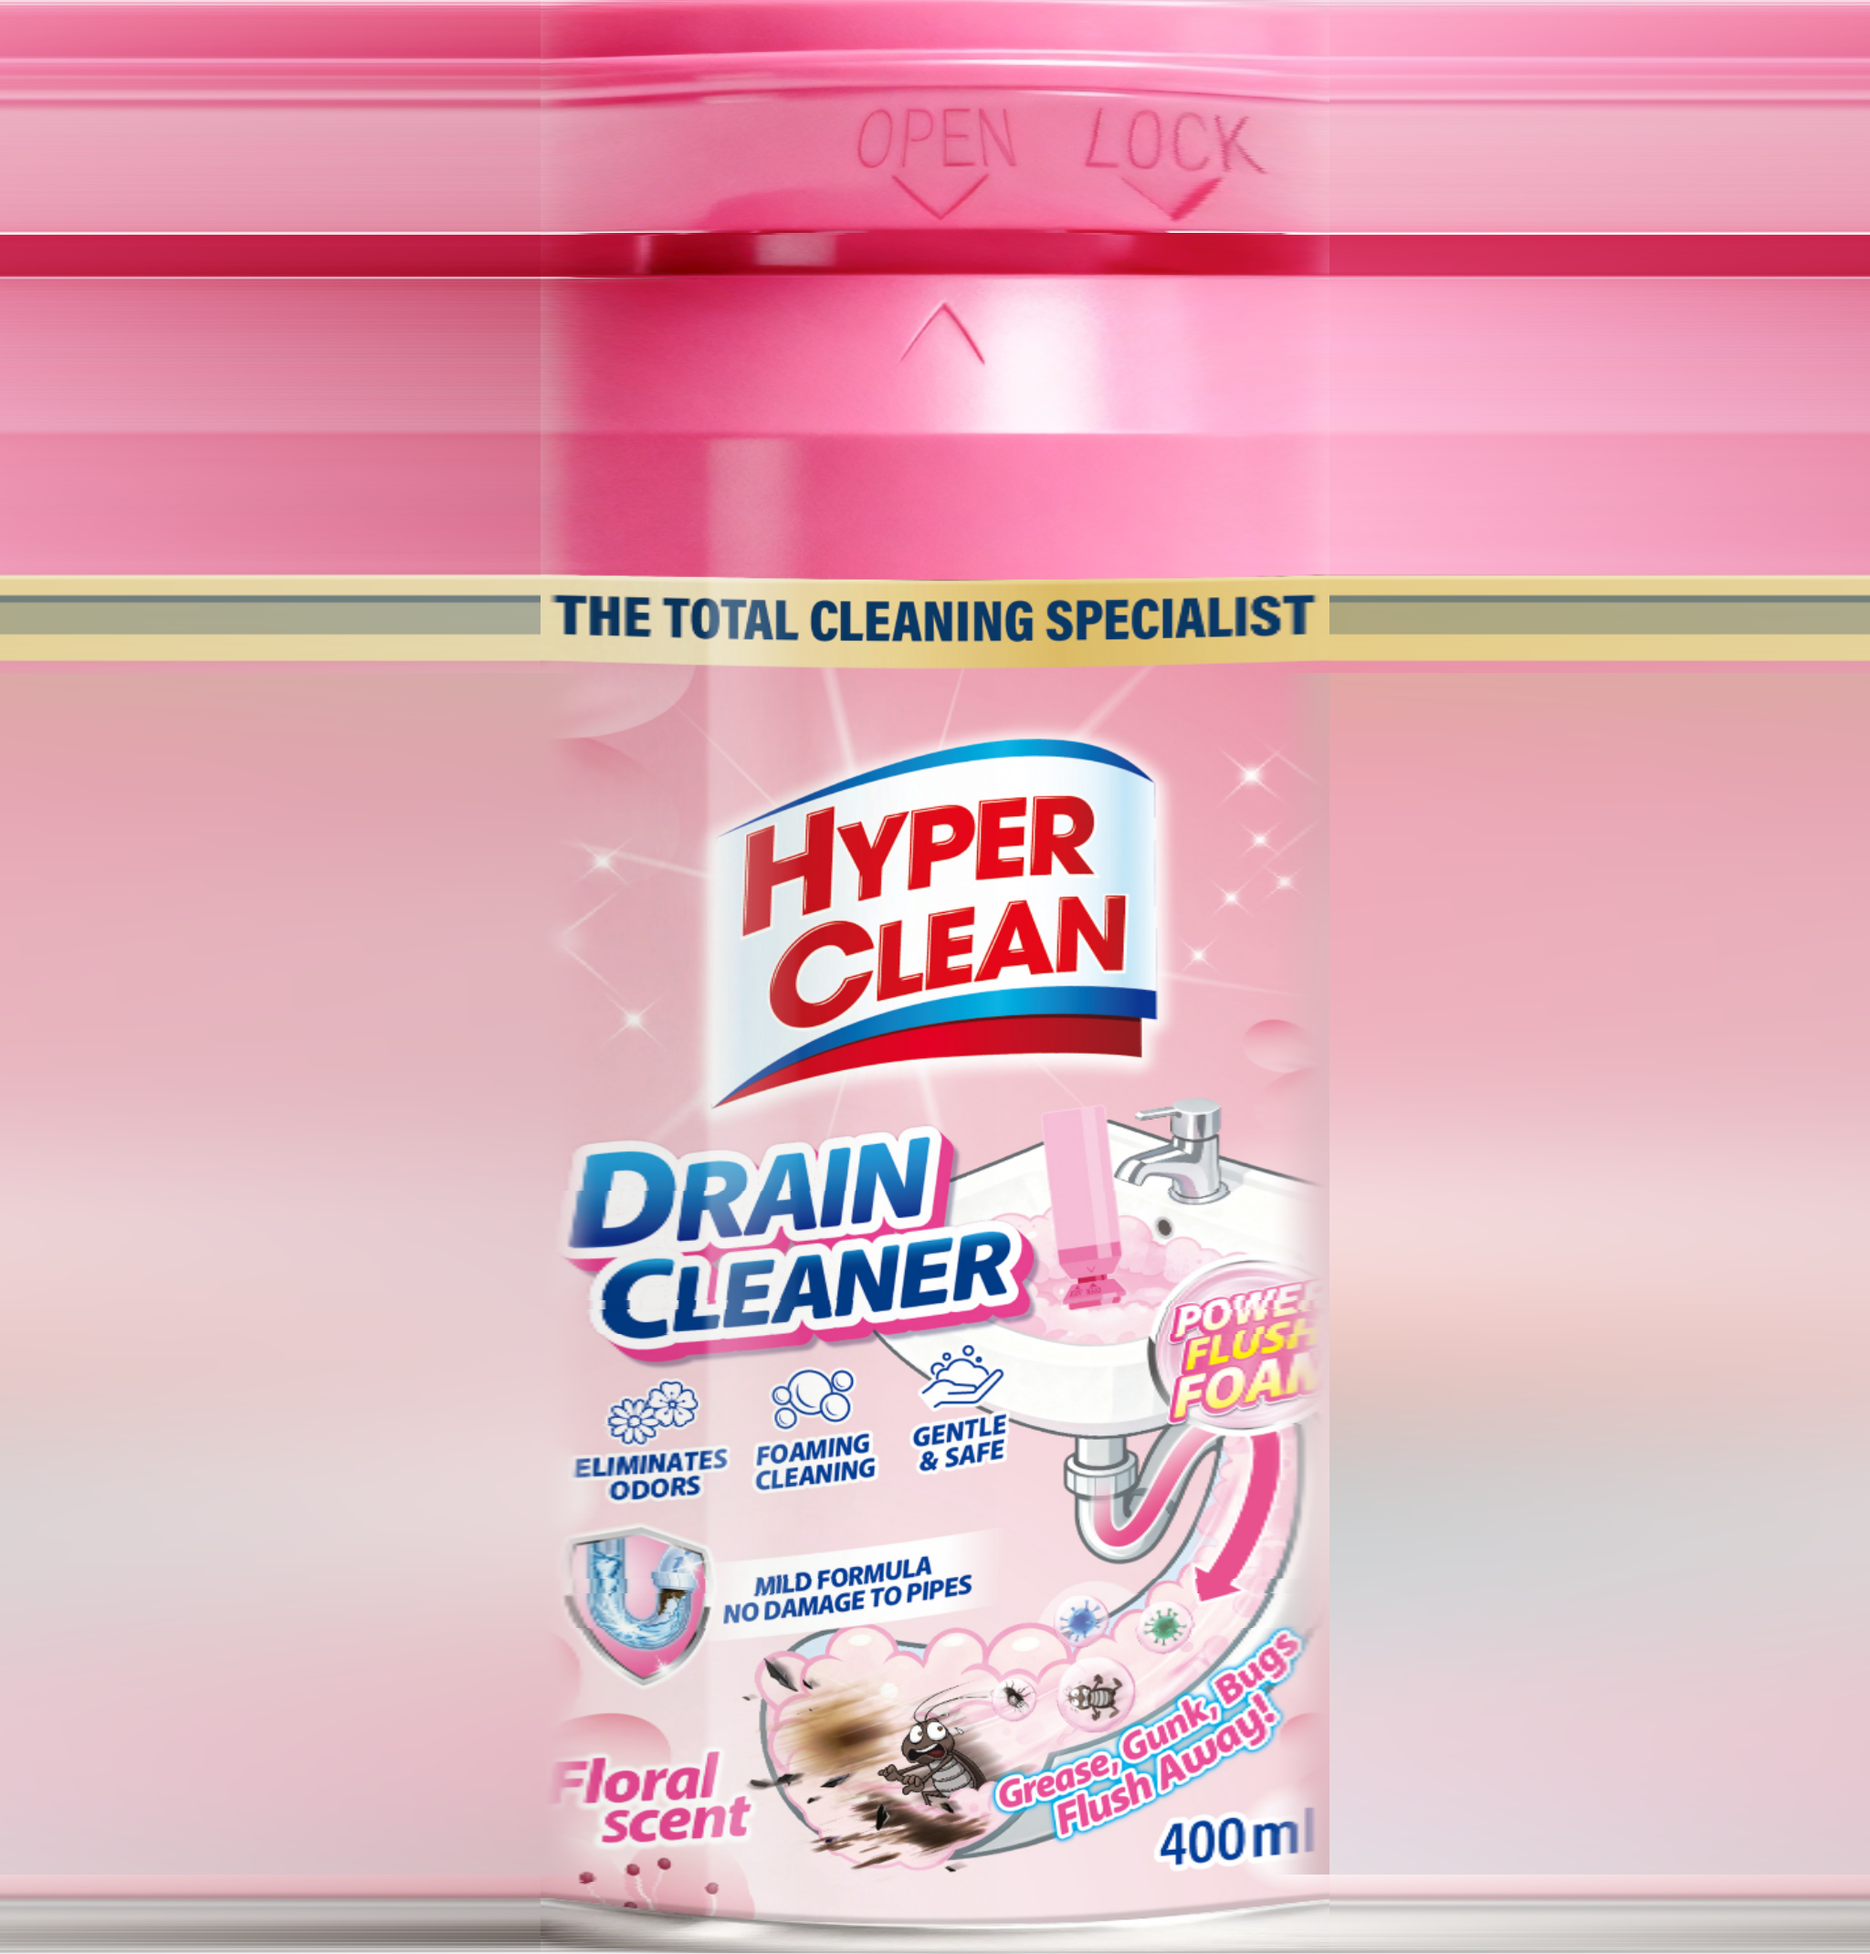
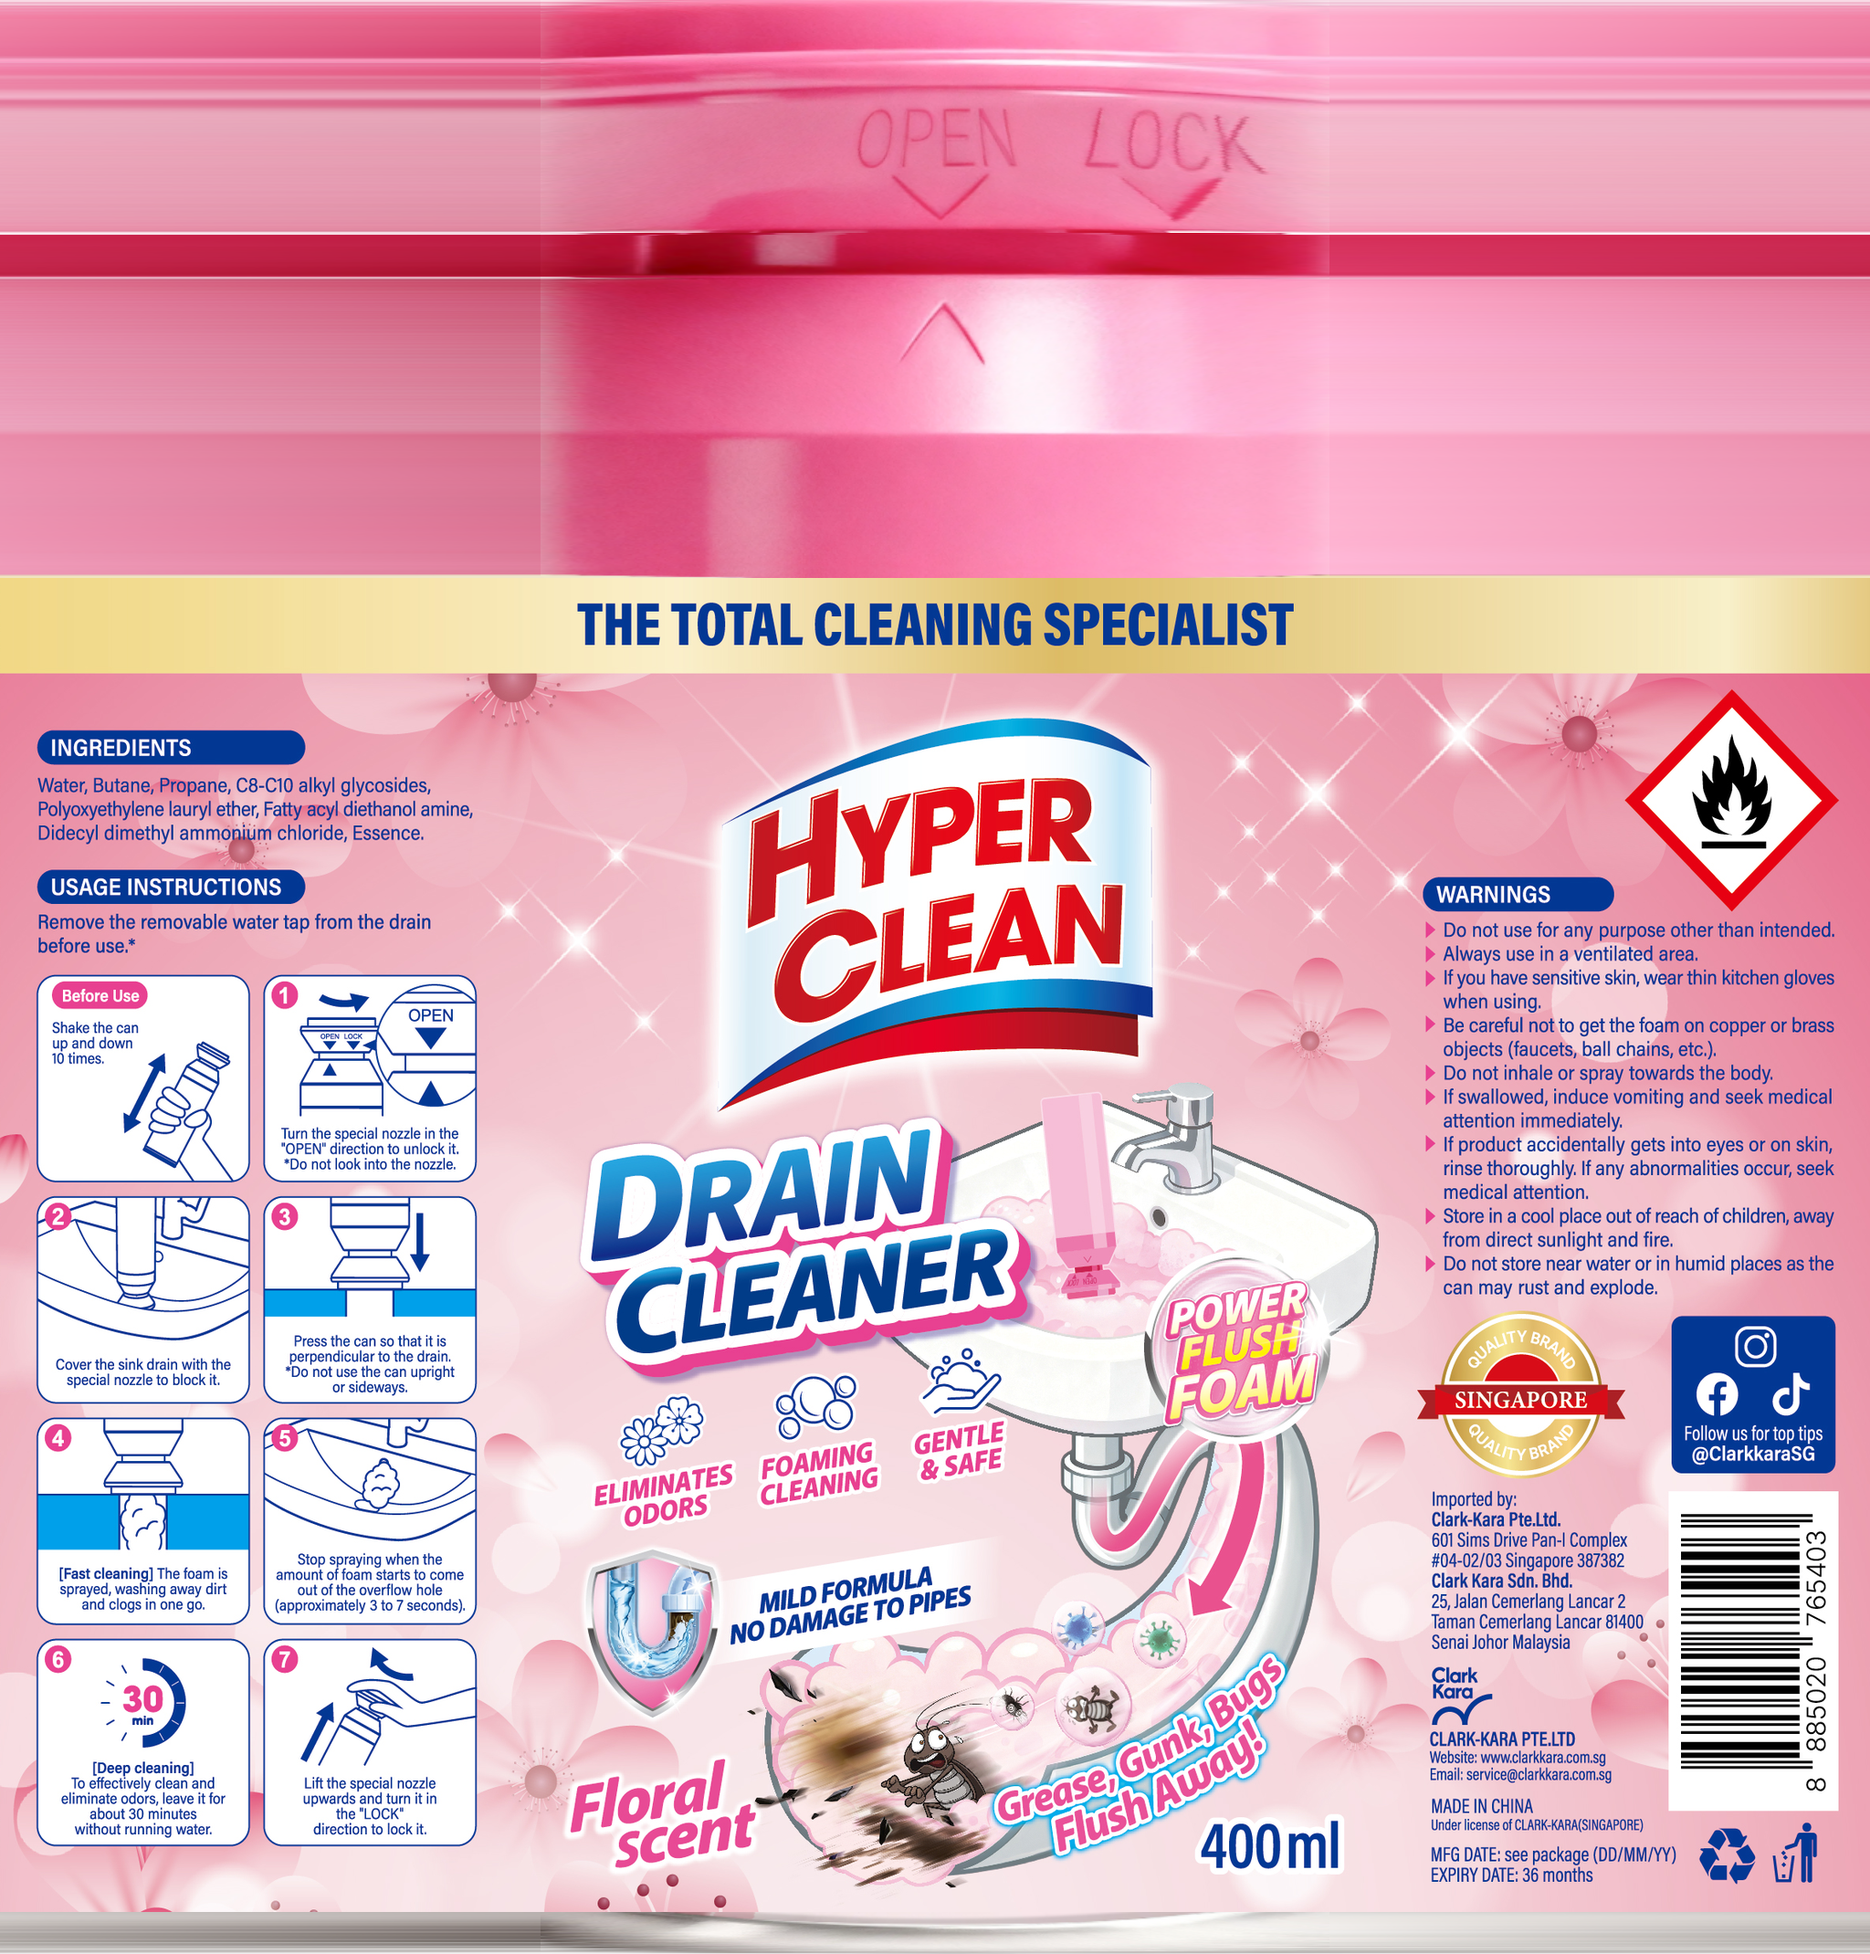
罐身换成印刷稿标签展开图(tools/make_label.py)；录制竖屏自动放宽视角拉远；导出场景带横/竖两台相机、背景板加高

diff --git a/app.js b/app.js
@@ -452,7 +452,7 @@ MODEL.add(CAN);
 const CAPG = new THREE.Group();
 {
   const canM = new THREE.MeshPhysicalMaterial({ color: PINK, roughness: 0.38, clearcoat: 0.55, clearcoatRoughness: 0.22 });
-  new THREE.TextureLoader().load('can.png?v=20261019', t => {
+  new THREE.TextureLoader().load('can.png?v=20261019b', t => {
     t.colorSpace = THREE.SRGBColorSpace; t.anisotropy = 8;
     canM.map = t; canM.color.set(0xffffff); canM.needsUpdate = true;
   });
@@ -1208,9 +1208,17 @@ addEventListener('resize', () => {
   sparkM.uniforms.uScale.value = innerHeight;
 });
 
-/* 录制：把场景摆到时间 T（自动运镜机位），渲染一帧并返回 JPEG */
+/* 录制：把场景摆到时间 T（自动运镜机位），渲染一帧并返回 JPEG
+   竖屏：机位是按 16:9 设计的，视角放宽到 50° 并沿视线拉远，保住约 70% 的横向范围，上下多出的空间正好装下龙头和管子 */
+const PORTRAIT_FOV = 50;
 function frame(T) {
   camAt(T, camera.position, controls.target);
+  if (camera.aspect < 1) {
+    const tan = d => Math.tan(d * Math.PI / 360);
+    const k = tan(35) * 16 / 9 * 0.7 / (tan(PORTRAIT_FOV) * camera.aspect);
+    camera.position.sub(controls.target).multiplyScalar(k).add(controls.target);
+    if (camera.fov !== PORTRAIT_FOV) { camera.fov = PORTRAIT_FOV; camera.updateProjectionMatrix(); }
+  }
   camera.lookAt(controls.target);
   evaluate(T, T);
   renderer.render(scene, camera);

diff --git a/tools/make_label.py b/tools/make_label.py
@@ -1,0 +1,30 @@
+"""
+用标签展开图（印刷稿，成品 206.5×160mm，左右各 2.5mm 焊接）替换 can.png 里的罐身标签部分；瓶盖 / 罐肩 / 罐底保持原样
+  横向：两条蓝色焊接线之间 = 罐身一整圈，焊缝在背面，Logo 正好朝正面（u = 0.5）
+  纵向：上下两条绿色虚线之间（设计师标的露出区）铺满罐身金色带上沿 ~ 标签下沿（比真实比例纵向拉长约 4%，看不出）
+  取图时往里收几个像素，避开虚线和"9mm/12mm"标注
+用法：python3 tools/make_label.py <标签展开图.jpg> <原 can.png> <输出 can.png>
+坐标都是印刷稿整图（4761×2982）里的像素，换稿要重新量
+"""
+import sys
+import numpy as np
+from PIL import Image
+
+ART, BASE, OUT = sys.argv[1:4]
+WELD_L, WELD_R = 338, 2723      # 左右蓝色焊接线 → 一整圈
+SHOW_TOP, SHOW_BOT = 942, 2585  # 上下绿色虚线：露出区
+INSET = 5                       # 往里收，避开虚线本身
+TEX_TOP, TEX_BOT = 633, 2094    # can.png 里罐身金色带上沿 / 标签下沿所在行
+PX_MM_ART = 11.81               # 印刷稿 每毫米像素
+CIRC_MM = (WELD_R - WELD_L) / PX_MM_ART
+
+base = Image.open(BASE).convert('RGB')
+W, H = base.size
+rows = TEX_BOT - TEX_TOP
+art = Image.open(ART).convert('RGB').crop((WELD_L + INSET, SHOW_TOP + INSET, WELD_R - INSET, SHOW_BOT - INSET))
+label = art.resize((W, rows), Image.LANCZOS)
+out = base.copy()
+out.paste(label, (0, TEX_TOP))
+out.save(OUT, optimize=True)
+stretch = rows / (W / CIRC_MM) / ((SHOW_BOT - SHOW_TOP) / PX_MM_ART)
+print(f'一圈 {CIRC_MM:.1f}mm，露出区 {(SHOW_BOT - SHOW_TOP) / PX_MM_ART:.1f}mm，纵向比例 ×{stretch:.3f} → {OUT}')
